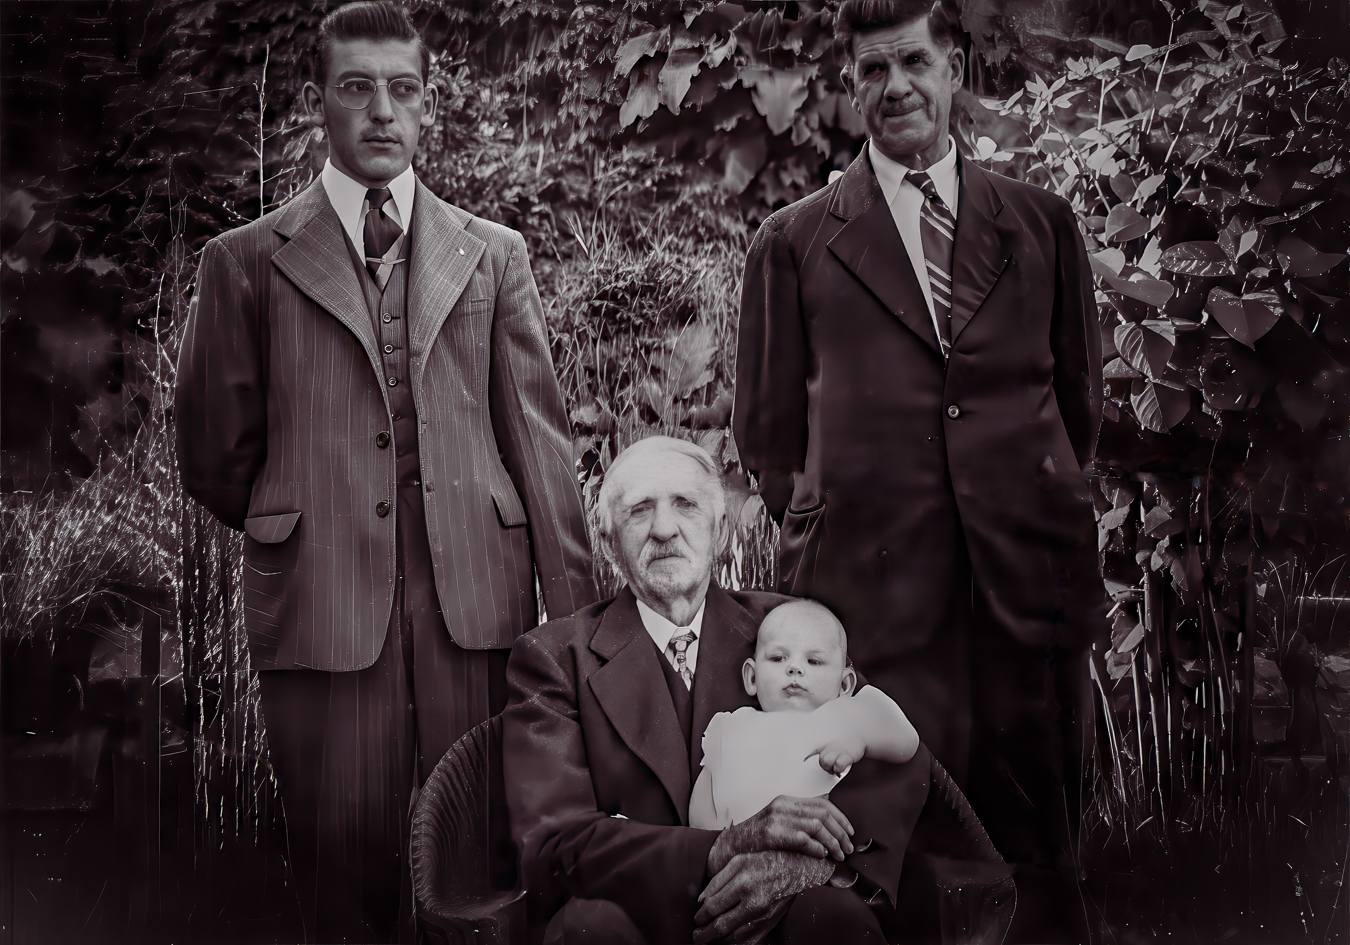
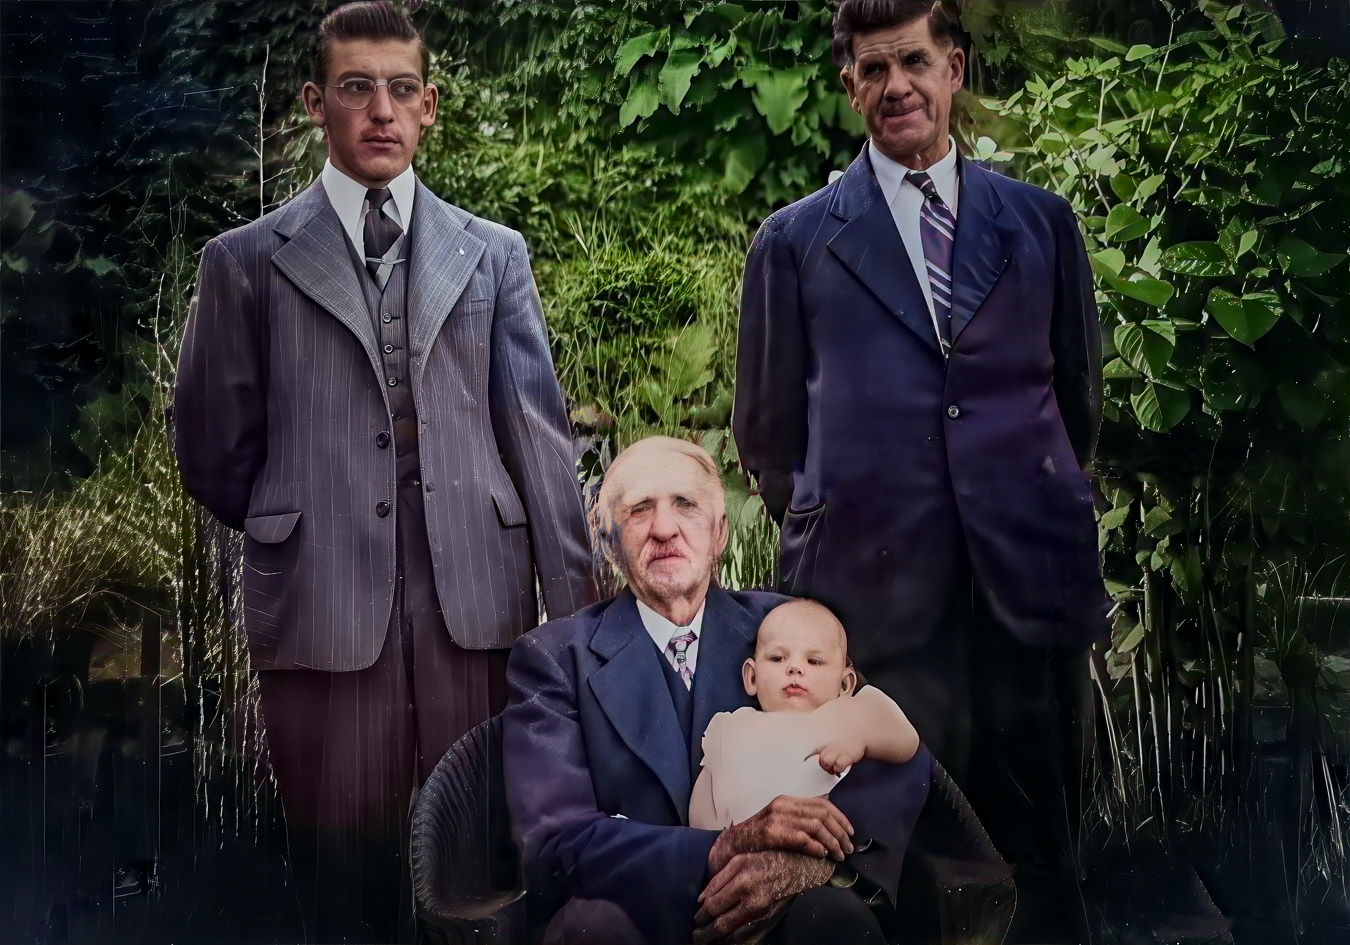
colorization

diff --git a/content/fr/restauration.md b/content/fr/restauration.md
@@ -9,6 +9,7 @@ draft = false
 ### Service de restauration, numérisation et retouches de photos anciennes
 
 - Correction des photos floues
+- Colorisation de photos en noir et blanc
 - Suppression du grain
 - Réparation des rayures sur photos abîmées
 - Numérisation de vos vieilles photos pour un partage sur les réseaux sociaux
@@ -32,6 +33,24 @@ draft = false
 {{< /fleximages >}}
 
 <br>
+{{< fleximages >}}
+{{< image-modal 
+    src="/img/generationBefore.jpg" 
+    width="500px"
+    title="Avant"
+    alt="Avant, vieille photo abîmée de quatres hommes de différentes générations"
+    caption="Avant, la photo es floue, abîmée et on distingue très mal les visages" 
+>}}
+{{< image-modal 
+    src="/img/generationAfter.jpg"
+    width="500px"
+    title="Après"
+    alt="Après, photo restaurée de quatres hommes de différentes générations"  
+    caption="Après, on distingue très bien les visages, la photo est colorisée et toutes les rayures ont été supprimées"
+>}}
+{{< /fleximages >}}
+
+<br>
 
 {{< fleximages >}}
 {{< image-modal 
@@ -47,25 +66,6 @@ draft = false
     title="Après"
     alt="Après, photo restaurée d'une jeune dame"
     caption="Après, la photo est très claire, le photo ne montre plus de vieillissement" 
->}}
-{{< /fleximages >}}
-
-<br>
-
-{{< fleximages >}}
-{{< image-modal 
-    src="/img/generationBefore.jpg" 
-    width="500px"
-    title="Avant"
-    alt="Avant, vieille photo abîmée de quatres hommes de différentes générations"
-    caption="Avant, la photo es floue, abîmée et on distingue très mal les visages" 
->}}
-{{< image-modal 
-    src="/img/generationAfter.jpg"
-    width="500px"
-    title="Après"
-    alt="Après, photo restaurée de quatres hommes de différentes générations"  
-    caption="Après, on distingue très bien les visages, la photo est claire et n'a plus aucune égratigure"
 >}}
 {{< /fleximages >}}
 

diff --git a/content/en/restoration.md b/content/en/restoration.md
@@ -9,6 +9,7 @@ draft = false
 ### Old photo restoration, digitization and retouching services
 
 - Fixing blurry photos
+- Colorization of black and white photos
 - Grain removal
 - Repairing scratches on damaged photos
 - Digitizing your old photos for sharing on social media
@@ -35,6 +36,25 @@ draft = false
 
 {{< fleximages >}}
 {{< image-modal 
+    src="/img/generationBefore.jpg" 
+    width="500px"
+    title="Before"
+    alt="Before: Old, damaged photo of four men from different generations"
+    caption="Before: The photo is blurry, damaged, and the faces are very hard to distinguish" 
+>}}
+{{< image-modal 
+    src="/img/generationAfter.jpg"
+    width="500px"
+    title="After"
+    alt="After: Restored photo of four men from different generations"  
+    caption="After: The faces are clearly visible, the photo is sharp, colorized, and all scratches have been removed"
+>}}
+{{< /fleximages >}}
+
+<br>
+
+{{< fleximages >}}
+{{< image-modal 
     src="/img/DSC01077 - insta.jpg" 
     width="500px"
     title="Before"
@@ -50,21 +70,4 @@ draft = false
 >}}
 {{< /fleximages >}}
 
-<br>
-{{< fleximages >}}
-{{< image-modal 
-    src="/img/generationBefore.jpg" 
-    width="500px"
-    title="Before"
-    alt="Before: Old, damaged photo of four men from different generations"
-    caption="Before: The photo is blurry, damaged, and the faces are very hard to distinguish" 
->}}
-{{< image-modal 
-    src="/img/generationAfter.jpg"
-    width="500px"
-    title="After"
-    alt="After: Restored photo of four men from different generations"  
-    caption="After: The faces are clearly visible, the photo is sharp, and all scratches have been removed"
->}}
-{{< /fleximages >}}
 <br>
